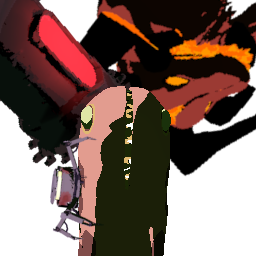
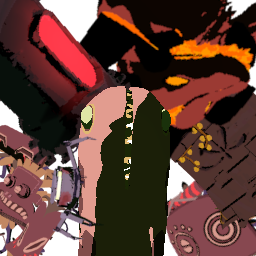
Added lesser lynx tribesmen to void cell. Final touches.

Changed region(s): [[0.625, 0.3438, 1.0, 1.0], [0.0, 0.4688, 0.25, 1.0], [0.875, 0.3438, 0.9375, 0.375]]

diff --git a/EnemiesReturns/ContentProvider.cs b/EnemiesReturns/ContentProvider.cs
@@ -1115,6 +1115,21 @@ namespace EnemiesReturns
 
             ArcherBody.SpawnCards.cscLynxArcherDefault = archerBody.CreateCard("cscLynxArcherDefault", ArcherMaster.MasterPrefab, ArcherBody.SkinDefs.Default, ArcherBody.BodyPrefab);
 
+            var dhLynxArcherDefault = new DirectorCard
+            {
+                spawnCard = ArcherBody.SpawnCards.cscLynxArcherDefault,
+                selectionWeight = EnemiesReturns.Configuration.LynxTribe.LynxArcher.SelectionWeight.Value,
+                spawnDistance = DirectorCore.MonsterSpawnDistance.Standard,
+                preventOverhead = true,
+                minimumStageCompletions = 0
+            };
+            DirectorAPI.DirectorCardHolder dchLynxArcherDefault = new DirectorAPI.DirectorCardHolder
+            {
+                Card = dhLynxArcherDefault,
+                MonsterCategory = DirectorAPI.MonsterCategory.BasicMonsters,
+            };
+            Utils.AddMonsterToStage(DirectorAPI.ToInternalStageName(DirectorAPI.Stage.VoidCell), dchLynxArcherDefault);
+
             HG.ArrayUtils.ArrayAppend(ref ModdedEntityStates.LynxTribe.Totem.SummonTribe.spawnCards, ArcherBody.SpawnCards.cscLynxArcherDefault);
 
             var archerBodyAlly = new ArcherBodyAlly();
@@ -1168,6 +1183,21 @@ namespace EnemiesReturns
             masterList.Add(HunterMaster.MasterPrefab);
 
             HunterBody.SpawnCards.cscLynxHunterDefault = hunterBody.CreateCard("cscLynxHunterDefault", HunterMaster.MasterPrefab, HunterBody.SkinDefs.Default, HunterBody.BodyPrefab);
+
+            var dhLynxHunterDefault = new DirectorCard
+            {
+                spawnCard = HunterBody.SpawnCards.cscLynxHunterDefault,
+                selectionWeight = EnemiesReturns.Configuration.LynxTribe.LynxHunter.SelectionWeight.Value,
+                spawnDistance = DirectorCore.MonsterSpawnDistance.Standard,
+                preventOverhead = true,
+                minimumStageCompletions = 0
+            };
+            DirectorAPI.DirectorCardHolder dchLynxHunterDefault = new DirectorAPI.DirectorCardHolder
+            {
+                Card = dhLynxHunterDefault,
+                MonsterCategory = DirectorAPI.MonsterCategory.BasicMonsters,
+            };
+            Utils.AddMonsterToStage(DirectorAPI.ToInternalStageName(DirectorAPI.Stage.VoidCell), dchLynxHunterDefault);
 
             HG.ArrayUtils.ArrayAppend(ref ModdedEntityStates.LynxTribe.Totem.SummonTribe.spawnCards, HunterBody.SpawnCards.cscLynxHunterDefault);
 
@@ -1223,6 +1253,21 @@ namespace EnemiesReturns
             masterList.Add(ScoutMaster.MasterPrefab);
 
             ScoutBody.SpawnCards.cscLynxScoutDefault = scoutBody.CreateCard("cscLynxScoutDefault", ScoutMaster.MasterPrefab, ScoutBody.SkinDefs.Default, ScoutBody.BodyPrefab);
+
+            var dhLynxScoutDefault = new DirectorCard
+            {
+                spawnCard = ScoutBody.SpawnCards.cscLynxScoutDefault,
+                selectionWeight = EnemiesReturns.Configuration.LynxTribe.LynxScout.SelectionWeight.Value,
+                spawnDistance = DirectorCore.MonsterSpawnDistance.Standard,
+                preventOverhead = true,
+                minimumStageCompletions = 0
+            };
+            DirectorAPI.DirectorCardHolder dchLynxScoutDefault = new DirectorAPI.DirectorCardHolder
+            {
+                Card = dhLynxScoutDefault,
+                MonsterCategory = DirectorAPI.MonsterCategory.BasicMonsters,
+            };
+            Utils.AddMonsterToStage(DirectorAPI.ToInternalStageName(DirectorAPI.Stage.VoidCell), dchLynxScoutDefault);
 
             HG.ArrayUtils.ArrayAppend(ref ModdedEntityStates.LynxTribe.Totem.SummonTribe.spawnCards, ScoutBody.SpawnCards.cscLynxScoutDefault);
 

diff --git a/EnemiesReturns/EnemiesReturnsPlugin.cs b/EnemiesReturns/EnemiesReturnsPlugin.cs
@@ -29,10 +29,10 @@ using UnityEngine.Networking;
 namespace EnemiesReturns
 {
     [BepInPlugin(GUID, ModName, Version)]
-    [BepInDependency(R2API.PrefabAPI.PluginGUID)]
     [BepInDependency("com.Viliger.RandyBobandyBrokeMyGamandy", BepInDependency.DependencyFlags.SoftDependency)]
     [BepInDependency("com.score.AdvancedPrediction", BepInDependency.DependencyFlags.SoftDependency)]
     [BepInDependency("com.Moffein.RiskyArtifacts", BepInDependency.DependencyFlags.SoftDependency)]
+    [BepInDependency(R2API.PrefabAPI.PluginGUID)]
     [BepInDependency(R2API.DeployableAPI.PluginGUID)]
     [BepInDependency(R2API.DirectorAPI.PluginGUID)]
     [BepInDependency(R2API.EliteAPI.PluginGUID)]
@@ -46,7 +46,7 @@ namespace EnemiesReturns
     {
         public const string Author = "Viliger";
         public const string ModName = "EnemiesReturns";
-        public const string Version = "0.4.8";
+        public const string Version = "0.4.9";
         public const string GUID = "com." + Author + "." + ModName;
 
         private void Awake()

diff --git a/EnemiesReturns/EditorHelpers/WalkSpeedDebugHelper.cs b/EnemiesReturns/EditorHelpers/WalkSpeedDebugHelper.cs
@@ -24,7 +24,8 @@ namespace EnemiesReturns.EditorHelpers
             // check the thing
             //Log.Info("walkSpeed: " + animator.GetFloat(AnimationParameters.walkSpeed));
 
-            //set the thing
+#if DEBUG || NOWEAVER
+            //set the t1hing
             foreach (var thing in animationParametersHashes.Keys)
             {
                 if (thing.Equals("walkSpeedDebug"))
@@ -32,7 +33,7 @@ namespace EnemiesReturns.EditorHelpers
                     animator.SetFloat(animationParametersHashes[thing], EnemiesReturns.Configuration.General.DebugWalkSpeedValue.Value);
                 }
             }
-
+#endif
         }
 
 

diff --git a/EnemiesReturns/Configuration/LynxTribe/LynxTotem.cs b/EnemiesReturns/Configuration/LynxTribe/LynxTotem.cs
@@ -78,7 +78,6 @@ namespace EnemiesReturns.Configuration.LynxTribe
                     DirectorAPI.ToInternalStageName(DirectorAPI.Stage.GoldenDieback),
                     DirectorAPI.ToInternalStageName(DirectorAPI.Stage.SunderedGrove),
                     DirectorAPI.ToInternalStageName(DirectorAPI.Stage.SkyMeadow),
-                    DirectorAPI.ToInternalStageName(DirectorAPI.Stage.VoidCell),
 
                     DirectorAPI.ToInternalStageName(DirectorAPI.Stage.TitanicPlainsSimulacrum),
                     DirectorAPI.ToInternalStageName(DirectorAPI.Stage.SkyMeadowSimulacrum)

diff --git a/Thunderstore/README.md b/Thunderstore/README.md
@@ -1,4 +1,4 @@
-## EnemiesReturns
+![banner](https://files.catbox.moe/yzknvl.png)
 
 This mod adds enemies and bosses from Risk of Rain Returns.
 
@@ -16,11 +16,17 @@ This mod adds enemies and bosses from Risk of Rain Returns.
 		</tr>
 	</thead>
 	<tr>
-		<td><img src="https://raw.githubusercontent.com/viliger2/RoR2_EnemiesReturns/refs/heads/main/EnemiesReturnsUnity/Assets/Enemies/MechanicalSpider/texMechanicalSpiderEnemyIcon.png" alt="Spitter"></td>
+		<td><img src="https://raw.githubusercontent.com/viliger2/RoR2_EnemiesReturns/refs/heads/main/EnemiesReturnsUnity/Assets/Enemies/MechanicalSpider/texMechanicalSpiderEnemyIcon.png" alt="Mechanical Spider"></td>
 		<td>Mechanical Spider</td>
 		<td>Re-programmable malware of the modern age. They will harass you at range and dash away from your attacks.</td>
 		<td>Verdant Falls, Viscous Falls, Rallypoint Delta, Sirens Call</td>
-	</tr>	
+	</tr>
+	<tr>
+		<td><img src="https://raw.githubusercontent.com/viliger2/RoR2_EnemiesReturns/refs/heads/main/EnemiesReturnsUnity/Assets/Enemies/LynxTribe/Shaman/texLynxShamanIcon.png" alt="Lynx Shaman"></td>
+		<td>Lynx Shaman</td>
+		<td>The leader of Lynx Tribe. His deep connection to N'kuhana empowers him.</td>
+		<td>Shattered Abodes, Disturbed Impact, Wetland Aspect, Treeborn Colony, Golden Dieback, Sundered Grove, Sky Meadow</td>
+	</tr>		
 	<thead>
 		<tr>
 			<th>Medium Enemies</th>
@@ -54,7 +60,13 @@ This mod adds enemies and bosses from Risk of Rain Returns.
 		<td>Ifrit</td>
 		<td>Fiery spawn of Hell. He will burn you with every attack.</td>
 		<td>Abyssal Depths, Siphoned Forest, Rallypoint Delta, Helminth Hatchery, <a href="https://thunderstore.io/package/viliger/Catacombs/">Catacombs</a>, <a href="https://thunderstore.io/package/winterwonderland/SnowtimeStages/">Gephyrophobia</a></td>
-	</tr>	
+	</tr>
+	<tr>
+		<td><img src="https://raw.githubusercontent.com/viliger2/RoR2_EnemiesReturns/refs/heads/main/EnemiesReturnsUnity/Assets/Enemies/LynxTribe/Totem/texLynxTotemIcon.png" alt="Lynx Totem"></td>
+		<td>Lynx Totem</td>
+		<td>Lynx Tribe's object of worship. Do not be deceived, it is not as immobile and harmless as it seems.</td>
+		<td>Titanic Plains, Distant Roost, Shattered Abodes, Disturbed Impact, Wetland Aspect, Treeborn Colony, Golden Dieback, Sundered Grove, Sky Meadow</td>
+	</tr>		
 </table>
 
 ## Credits
@@ -104,6 +116,25 @@ This mod adds enemies and bosses from Risk of Rain Returns.
 * SciFi Door Opening - https://pixabay.com/sound-effects/scifi-door-opening-36171/
 * Sci-Fi Weapon - Mechanism - Robotic Morph Medium Duration - https://pixabay.com/sound-effects/sci-fi-weapon-mechanism-robotic-morph-medium-duration-233840/
 * Old Fan With Start Sound - https://pixabay.com/sound-effects/old-fan-with-start-sound-247598/
+</details>
+<details>
+<summary>Lynx Tribe</summary>
+
+* Lynx Tribe models, rigging, texturing, animations (Shaman, Hunter), lore by [FORCED_REASSEMBLY](https://thunderstore.io/package/Forced_Reassembly/) 
+* Rigging, animations (Archer, Totem, Hunter, Scout) by Sentinel
+* Animations (Scout), code by [viliger](https://thunderstore.io/package/viliger/)
+* Item model and texturing by Hyperinvox
+* Majority of sounds come from RoRR, WoW and Brutal Orchestra.
+* branch breaking forest twig snap crunch.wav - https://freesound.org/people/kyles/sounds/452570/
+* Raking leaves - https://pixabay.com/sound-effects/raking-leaves-29055/
+* Slide whistle 2 - https://pixabay.com/sound-effects/slide-whistle-2-68084/
+* SFX_wood_fall_pile_bunch_stone_floor_01.wav - https://freesound.org/people/EricsSoundschmiede/sounds/669461/
+* wood_plank_impact_ground.wav - https://freesound.org/people/marb7e/sounds/653128/
+* Battle Dagger Sharpen - https://pixabay.com/sound-effects/battle-dagger-sharpen-71954/
+* Knife being sharpened - https://pixabay.com/sound-effects/knife-being-sharpened-99632/
+* Hand digging dirt, leaves crunch - https://pixabay.com/sound-effects/hand-digging-dirt-leaves-crunch-32630/
+* Digging - https://pixabay.com/sound-effects/digging-6691/
+* Falling In Dirt - https://pixabay.com/sound-effects/falling-in-dirt-87202/
 </details>
 - Special thanks to 
 

diff --git a/Thunderstore/CHANGELOG.md b/Thunderstore/CHANGELOG.md
@@ -1,4 +1,26 @@
 <details>
+<summary>0.4.9</summary>
+
+* Added new Small-tier monster: Lynx Shaman.
+* Added new Boss-tier monster: Lynx Totem.
+* Implemented DamageSource for all enemies.
+  * _This means that all enemies can benefit from items and effects that check if damage was made with specific ability, assuming the enemy has said ability of course._
+* Colossal fist
+  * Added downwards force, so flying enemies are slammed into the ground on projectile impact.
+* Colossus
+  * Config to spawn additional enemies on Clap post-loop is now enabled by default.
+    * _This and some things with Lynx Tribe are made to incentivise looping while having zero effect on players who prefer one loop gameplay._
+* Mechanical Spider
+  * Broken spider now has new visual effects and sounds. 
+
+</details>
+<details>
+<summary>0.3.10</summary>
+
+* Fixed a potential ArgumentOutOfRangeException on dealing damage if Colossal Fist is disabled.
+
+</details>
+<details>
 <summary>0.3.9</summary>
 
 * Fixed bodies mass being inconsistent (you will no longer throw Spitter around as Loader with just basic attacks).
